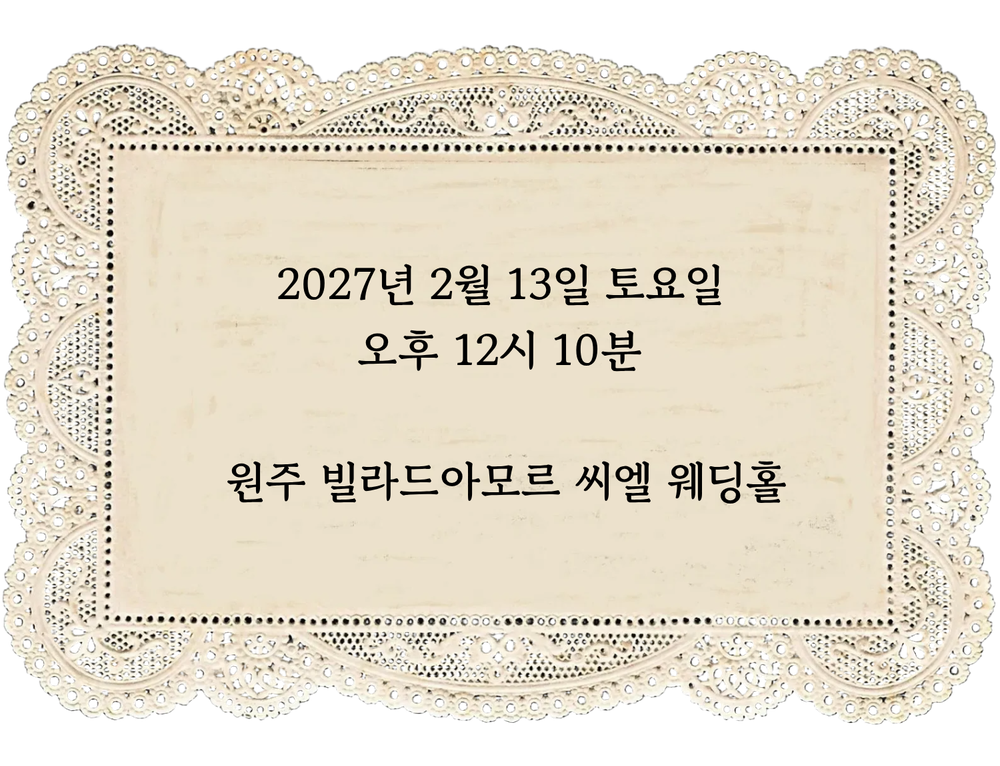
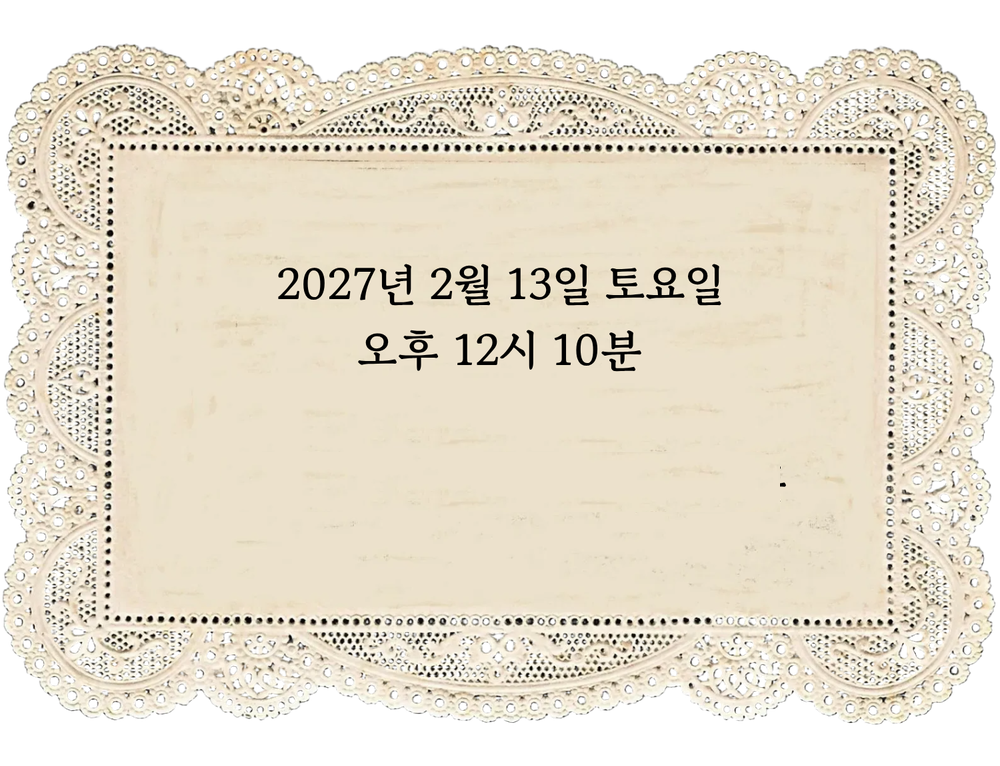
Fix gallery overflow on iOS, restore photo viewer without zoom, rename hall
- Gallery: minmax(0,1fr) columns and absolutely-positioned images so Safari no longer overflows the board
- Photo viewer on tap with prev/next, swipe, and pinch/double-tap zoom disabled
- Rename venue hall to 르블루씨엘홀 (date card text rendered as HTML)
- Bump asset version to v8

Changed region(s): [[0.217, 0.6005, 0.775, 0.6606]]

diff --git a/index.html b/index.html
@@ -10,7 +10,7 @@
 <link rel="preconnect" href="https://fonts.googleapis.com">
 <link rel="preconnect" href="https://fonts.gstatic.com" crossorigin>
 <link href="https://fonts.googleapis.com/css2?family=Gaegu:wght@400;700&family=Gowun+Batang:wght@400;700&family=Nothing+You+Could+Do&family=Reenie+Beanie&display=swap" rel="stylesheet">
-<link rel="stylesheet" href="style.css?v=6">
+<link rel="stylesheet" href="style.css?v=8">
 </head>
 <body>
 <main class="wrap">
@@ -28,14 +28,14 @@
   <!-- 2. Our Wedding day -->
   <section class="sec wine day" id="day">
     <h2 class="script big reveal">Our Wedding day</h2>
-    <div class="date-card reveal"><img src="img/card-date.png" alt="2027년 2월 13일 토요일 오후 12시 10분 원주 빌라드아모르 씨엘 웨딩홀"></div>
+    <div class="date-card reveal"><img src="img/card-date.png?v=8" alt="2027년 2월 13일 토요일 오후 12시 10분 원주 빌라드아모르 르블루씨엘홀"><p class="card-venue">원주 빌라드아모르 르블루씨엘홀</p></div>
 
     <p class="parents reveal">
       <span>박금용 · 손선미<em>의 아들</em> <b>상현</b></span>
       <span>이종봉 · 문태숙<em>의 딸</em> <b>가경</b></span>
     </p>
 
-    <div class="locket reveal"><img src="img/locket.png?v=6" alt="신랑신부 로켓 목걸이"></div>
+    <div class="locket reveal"><img src="img/locket.png?v=8" alt="신랑신부 로켓 목걸이"></div>
 
     <div class="tapes reveal">
       <img src="img/tape.png" alt="">
@@ -81,7 +81,7 @@
   <section class="sec paper loc" id="loc">
     <h2 class="script big dark reveal">Location</h2>
     <p class="sub dark reveal">오시는 길</p>
-    <p class="hall reveal">원주 빌라드아모르 씨엘 웨딩홀</p>
+    <p class="hall reveal">원주 빌라드아모르 르블루씨엘홀</p>
     <p class="haddr reveal"><span id="addr-text">강원 원주시 북원로 2888</span>
       <button class="copy" id="addr-copy" aria-label="주소 복사" data-copy="강원 원주시 북원로 2888">복사</button></p>
     <div class="map reveal" id="map">
@@ -170,7 +170,8 @@
   <footer>© Sanghyun &amp; Gakyung</footer>
 </main>
 
+<div id="lightbox" hidden><button class="lb-close" aria-label="닫기">×</button><button class="lb-prev" aria-label="이전">‹</button><img alt=""><button class="lb-next" aria-label="다음">›</button><div class="lb-count"></div></div>
 <div id="toast" hidden>복사되었어요</div>
-<script src="script.js?v=6"></script>
+<script src="script.js?v=8"></script>
 </body>
 </html>

diff --git a/style.css b/style.css
@@ -151,6 +151,8 @@ img {
 }
 
 .date-card {
+  position: relative;
+  container-type: inline-size;
   margin: 34px -8px 0
 }
 
@@ -238,11 +240,15 @@ img {
 
 .stamps {
   display: grid;
-  grid-template-columns: repeat(3, 1fr);
+  grid-template-columns: repeat(3, minmax(0, 1fr));
   gap: 12px 8px
 }
 
 .stamp {
+  position: relative;
+  min-width: 0;
+  cursor: pointer;
+  -webkit-tap-highlight-color: transparent;
   background: #fff;
   border: 5px solid transparent;
   padding: 4px;
@@ -254,9 +260,13 @@ img {
 }
 
 .stamp img {
-  width: 100%;
-  height: 100%;
-  object-fit: cover
+  position: absolute;
+  left: 4px;
+  top: 4px;
+  width: calc(100% - 8px);
+  height: calc(100% - 8px);
+  object-fit: cover;
+  -webkit-user-drag: none
 }
 
 /* calendar */
@@ -771,4 +781,90 @@ footer {
     opacity: 1;
     transform: none
   }
+}
+/* lightbox: 크게 보기 (확대/축소 제스처는 막음) */
+#lightbox {
+  position: fixed;
+  inset: 0;
+  z-index: 100;
+  display: grid;
+  place-items: center;
+  background: rgba(0, 0, 0, .9);
+  touch-action: none;
+  -webkit-user-select: none;
+  user-select: none
+}
+
+#lightbox[hidden] {
+  display: none
+}
+
+#lightbox img {
+  max-width: 100vw;
+  max-height: 86vh;
+  max-height: 86dvh;
+  object-fit: contain;
+  -webkit-user-drag: none;
+  pointer-events: none
+}
+
+#lightbox button {
+  position: absolute;
+  background: rgba(0, 0, 0, .35);
+  color: #fff;
+  border: 0;
+  width: 44px;
+  height: 44px;
+  border-radius: 50%;
+  font-size: 28px;
+  line-height: 1;
+  cursor: pointer;
+  -webkit-tap-highlight-color: transparent
+}
+
+#lightbox .lb-close {
+  top: max(14px, env(safe-area-inset-top));
+  right: 14px
+}
+
+#lightbox .lb-prev,
+#lightbox .lb-next {
+  top: 50%;
+  margin-top: -22px
+}
+
+#lightbox .lb-prev {
+  left: 10px
+}
+
+#lightbox .lb-next {
+  right: 10px
+}
+
+#lightbox .lb-count {
+  position: absolute;
+  bottom: max(18px, env(safe-area-inset-bottom));
+  left: 0;
+  right: 0;
+  text-align: center;
+  color: #fff;
+  font-size: 14px;
+  opacity: .8
+}
+
+body.lb-open {
+  overflow: hidden
+}
+
+.card-venue {
+  position: absolute;
+  left: 0;
+  right: 0;
+  top: 62.8%;
+  transform: translateY(-50%);
+  text-align: center;
+  font-size: 4.3cqw;
+  color: #2f2118;
+  font-weight: 700;
+  letter-spacing: -.01em
 }

diff --git a/script.js b/script.js
@@ -17,7 +17,40 @@
     d.className = 'stamp';
     d.style.setProperty('--r', ((i * 37) % 5 - 2) * .8 + 'deg');
     d.innerHTML = `<img loading="lazy" src="img/ace_${n}.jpg" alt="웨딩 사진 ${i + 1}">`;
+    d.addEventListener('click', () => openLb(i));
     stamps.appendChild(d);
+  });
+
+  // ===== 크게 보기 (확대/축소는 막음) =====
+  const lb = document.getElementById('lightbox'), lbImg = lb.querySelector('img'), lbCount = lb.querySelector('.lb-count');
+  let cur = 0;
+  function showLb(i){
+    cur = (i + photos.length) % photos.length;
+    lbImg.src = `img/ace_${photos[cur]}.jpg`;
+    lbCount.textContent = `${cur + 1} / ${photos.length}`;
+  }
+  function openLb(i){ showLb(i); lb.hidden = false; document.body.classList.add('lb-open'); }
+  function closeLb(){ lb.hidden = true; document.body.classList.remove('lb-open'); }
+  lb.querySelector('.lb-close').addEventListener('click', (e) => { e.stopPropagation(); closeLb(); });
+  lb.querySelector('.lb-prev').addEventListener('click', (e) => { e.stopPropagation(); showLb(cur - 1); });
+  lb.querySelector('.lb-next').addEventListener('click', (e) => { e.stopPropagation(); showLb(cur + 1); });
+  lb.addEventListener('click', closeLb);
+  // 핀치 확대 / 더블탭 확대 차단 (iOS Safari 포함)
+  ['gesturestart', 'gesturechange', 'gestureend'].forEach(t => lb.addEventListener(t, e => e.preventDefault()));
+  lb.addEventListener('dblclick', e => e.preventDefault());
+  lb.addEventListener('touchmove', e => e.preventDefault(), { passive: false });
+  let lx = null;
+  lb.addEventListener('touchstart', e => { lx = e.touches.length === 1 ? e.touches[0].clientX : null; }, { passive: true });
+  lb.addEventListener('touchend', e => {
+    if (lx === null) return;
+    const dx = e.changedTouches[0].clientX - lx; lx = null;
+    if (Math.abs(dx) > 50) { e.preventDefault(); showLb(cur + (dx < 0 ? 1 : -1)); }
+  });
+  document.addEventListener('keydown', e => {
+    if (lb.hidden) return;
+    if (e.key === 'Escape') closeLb();
+    if (e.key === 'ArrowLeft') showLb(cur - 1);
+    if (e.key === 'ArrowRight') showLb(cur + 1);
   });
 
   // ===== 달력 =====
